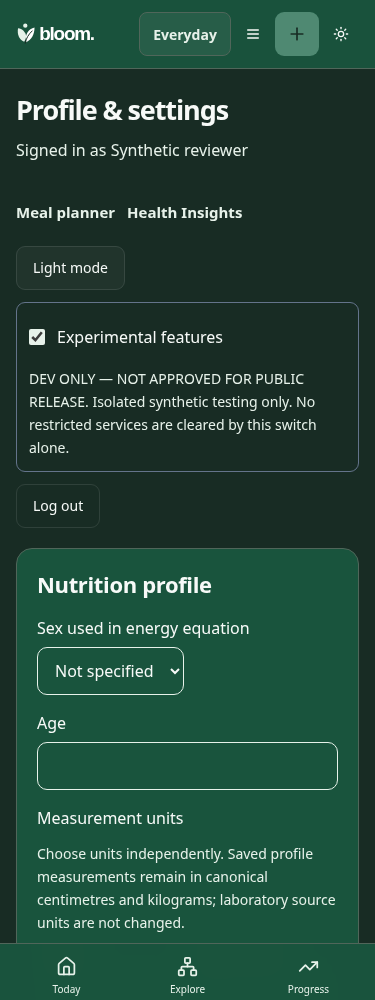
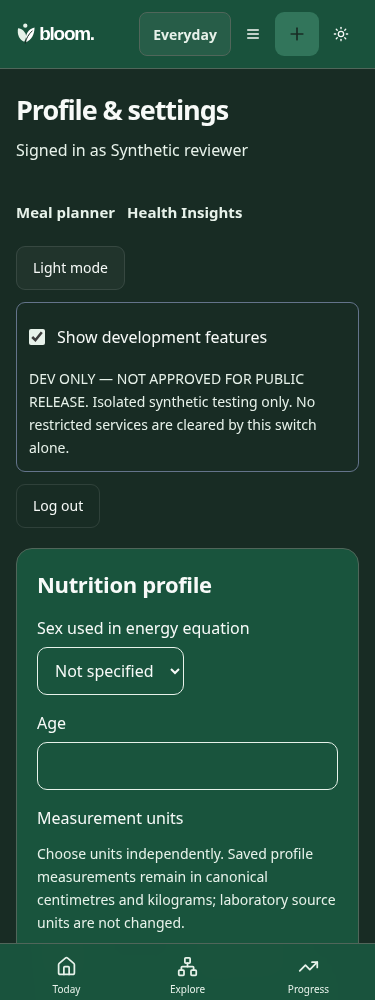
Unify internal development-mode labels without elevating restricted access

Changed region(s): [[0.1467, 0.31, 0.704, 0.341], [0.7333, 0.0, 0.8507, 0.062]]

diff --git a/client/src/components/ExperimentalSettings.tsx b/client/src/components/ExperimentalSettings.tsx
@@ -9,5 +9,5 @@ export default function ExperimentalSettings(){
  const save=useMutation({onMutate:(enabled:boolean)=>{if(!enabled){queryClient.setQueryData(key,(previous:any)=>previous?{...previous,experimentalEnabled:false}:previous);void queryClient.cancelQueries({predicate:q=>q.meta?.restrictedCapability===true});queryClient.removeQueries({predicate:q=>q.meta?.restrictedCapability===true});}},mutationFn:async(enabled:boolean)=>(await apiRequest('PATCH','/api/capabilities/experimental',{enabled})).json(),onSettled:async()=>{await queryClient.invalidateQueries({queryKey:key});setRequested(null);}});
  useEffect(()=>{if(!status.data?.experimentalEnabled){void queryClient.cancelQueries({predicate:q=>q.meta?.restrictedCapability===true});queryClient.removeQueries({predicate:q=>q.meta?.restrictedCapability===true});}},[status.data?.experimentalEnabled]);
  if(!status.data?.eligible||status.isError)return null;
- return <div className="experimental-preference space-y-2 w-full rounded-lg border border-slate-500 p-3"><label className="flex gap-2 items-center"><input type="checkbox" checked={requested??status.data.experimentalEnabled} disabled={requested!==null||save.isPending||status.isFetching} onChange={e=>{const next=e.target.checked;setRequested(next);save.mutate(next);}}/>Experimental features</label><p className="panel-note">DEV ONLY — NOT APPROVED FOR PUBLIC RELEASE. Isolated synthetic testing only. No restricted services are cleared by this switch alone.</p>{save.error&&<p role="alert">{save.error.message}</p>}</div>;
+ return <div className="experimental-preference space-y-2 w-full rounded-lg border border-slate-500 p-3"><label className="flex gap-2 items-center"><input type="checkbox" checked={requested??status.data.experimentalEnabled} disabled={requested!==null||save.isPending||status.isFetching} onChange={e=>{const next=e.target.checked;setRequested(next);save.mutate(next);}}/>Show development features</label><p className="panel-note">DEV ONLY — NOT APPROVED FOR PUBLIC RELEASE. Isolated synthetic testing only. No restricted services are cleared by this switch alone.</p>{save.error&&<p role="alert">{save.error.message}</p>}</div>;
 }

diff --git a/tests/capability-state.test.ts b/tests/capability-state.test.ts
@@ -1,0 +1,4 @@
+import test from 'node:test';import assert from 'node:assert/strict';import {developmentStatusLabel} from '../shared/capability-state';
+test('development status distinguishes unfinished, review, research and incident states without granting access',()=>{
+ assert.equal(developmentStatusLabel('IN_DEVELOPMENT','GENERAL_RELEASE','APPROVED'),'In development');assert.equal(developmentStatusLabel('VERIFIED','HIDDEN_PENDING_APPROVAL','UNDER_REVIEW'),'Pending approval');assert.equal(developmentStatusLabel('TESTABLE','HIDDEN_PENDING_APPROVAL','PROPOSED'),'In development · pending approval');assert.equal(developmentStatusLabel('PLANNED','GENERAL_RELEASE','APPROVED'),'Not yet functional');assert.equal(developmentStatusLabel('VERIFIED','INTERNAL_RESEARCH_ONLY','APPROVED'),'Internal research only');assert.equal(developmentStatusLabel('FUNCTIONALLY_COMPLETE','GENERAL_RELEASE','APPROVED'),'Verification pending');assert.equal(developmentStatusLabel('VERIFIED','GENERAL_RELEASE','APPROVED'),null);assert.equal(developmentStatusLabel('VERIFIED','DISABLED_INCIDENT','APPROVED'),'Unavailable');
+});

diff --git a/shared/capability-state.ts b/shared/capability-state.ts
@@ -1,0 +1,10 @@
+/** Implementation and release review are independent. Labels never confer access. */
+export type ImplementationReadiness='PLANNED'|'IN_DEVELOPMENT'|'TESTABLE'|'FUNCTIONALLY_COMPLETE'|'VERIFIED';
+export function developmentStatusLabel(readiness:ImplementationReadiness,category:string,approval:string):string|null {
+ if(category==='DISABLED_INCIDENT')return 'Unavailable';
+ const unfinished=readiness!=='VERIFIED'&&readiness!=='FUNCTIONALLY_COMPLETE';
+ const implementation=readiness==='PLANNED'?'Not yet functional':unfinished?'In development':readiness==='FUNCTIONALLY_COMPLETE'&&category==='GENERAL_RELEASE'&&approval==='APPROVED'?'Verification pending':null;
+ const release=category==='INTERNAL_RESEARCH_ONLY'?'Internal research only':category!=='GENERAL_RELEASE'||approval!=='APPROVED'?'Pending approval':null;
+ if(implementation&&release)return `${implementation} · ${release.toLowerCase()}`;
+ return implementation||release;
+}

diff --git a/BACKLOG.md b/BACKLOG.md
@@ -12,10 +12,11 @@ This execution ledger follows the owner's overnight directive. Scope and priorit
 | GATE-701 / LEG-GATE / LEG-INVENTORY | P0 | Central versioned capability policy, full exposure inventory and internal-only reactive UI gates | IN_PROGRESS | Provisional approval normalization and fail-closed photo/flux API guards implemented in current slice. Full endpoint/output/job/export coverage, tester provisioning/toggle and reactive graphite UI remain independently actionable. Incident-disabled outputs must stay off. |
 | GATE-701-PREF | P0 | Server-provisioned internal opt-in with reversible Settings preference | IMPLEMENTED_AND_TESTED | 210 tests/types/build and synthetic light/dark/mobile/desktop off/on/revocation checks. Published d0214c0, CI 40073617588 passed, Render dep-dbe5nh4s728c738d5grg live. Current effective restricted capability list remains empty. No live grants/migration/activation. |
 | OPS-702-USDA | P0 | Shared source request allowance across search/detail/meal lookup | IMPLEMENTED_AND_TESTED | 213 tests/types/build; two-replica database boundary/reset/cache/fallback tests. Published 80c3aad; CI 40074216938 passed on its Architect-doc descendant. No monetary tariff invented. Full AI spend/circuits/analytics remain OPEN. |
+| GATE-701-STATE / 91f16c8 | P0 | One Show development features control and orthogonal readiness/release label contract | IMPLEMENTED_AND_TESTED; publication pending | 217 tests/types/build and updated internal off/on/revocation/Appearance browser. Actual internal module composition and full inventory remain IN_PROGRESS. |
 | OPS-702 | P0 | Shared per-user/capability limits, atomic AI spend reservations and recovery verification | OPEN | Existing shared rate budgets remain. New daily/monthly money metering and recovery acceptance are not claimed. No invented tariffs or paid services. |
-| FOOD-508 / INT-REST / UT-REST / MKT-REST | P0 | Common-brand/recent restaurant combobox and explicit region/locality fallbacks | IMPLEMENTED_AND_TESTED; publication pending | 215 tests/types/build; keyboard McDonald's selection, market separation, no GPS requests and canonical context/save browser regression passed. Actual menu/places sources remain externally gated. |
+| FOOD-508 / INT-REST / UT-REST / MKT-REST | P0 | Common-brand/recent restaurant combobox and explicit region/locality fallbacks | IMPLEMENTED_AND_TESTED; exact-SHA publication verification pending | 215 tests/types/build; keyboard McDonald's selection, market separation, no GPS requests and canonical context/save browser regression passed. Actual menu/places sources remain externally gated. |
 | COPY-1301 / UT-COPY / MKT-COPY / MKT-LAYOUT | P0 | Task-first concise copy and rendered layout audit | IN_PROGRESS | Applied to active Add Food/restaurant surface with screenshots and overflow checks. Whole-app sweep remains actionable; do not claim source suspicions are proven layout defects. |
-| FOOD-509 / 7af47d5 / MKT-REG-1210–1213 | P0 | Hide unfinished public food and connection placeholders; preserve real manual operations | IMPLEMENTED_AND_TESTED; publication pending | 216 tests/types/build and direct-photo-link/draft/hidden-control/browser regression. Four working chooser methods; no image/GPS calls. Broader capability inventory remains OPEN. |
+| FOOD-509 / 7af47d5 / MKT-REG-1210–1213 | P0 | Hide unfinished public food and connection placeholders; preserve real manual operations | IMPLEMENTED_AND_TESTED; exact-SHA publication verification pending | 216 tests/types/build and direct-photo-link/draft/hidden-control/browser regression. Four working chooser methods; no image/GPS calls. Broader capability inventory remains OPEN. |
 | PRIV-101 | P0 | Combined account-record export | VERIFIED_PREVIEW | `40147fb`; CI 40057861646 passed, Render live. Read-only account snapshot; explicit optional-storage state; no passwords/session material/internal paths. |
 | PRIV-102 | P0 | Password-confirmed active account erasure and stored-session revocation | VERIFIED_PREVIEW; specialist review pending | `9f83028`; 203 Node tests, types/build and synthetic browser passed. CI 40059692748 passed including real isolated-Neon erasure and second-account checks. Render `dep-dbe2k8ks728c738aphcg` live. |
 | PRIV-103 | P0 | Backup retention, erasure propagation through restore, operational-log and vendor lifecycle | OPEN | Audit existing provider/configuration and approved retention requirements first. Implement/test with isolated synthetic data; actual destructive backup operations require separate authorization. No claim of full backup/vendor erasure. |

diff --git a/NEXT_ACTIONS.md b/NEXT_ACTIONS.md
@@ -4,7 +4,7 @@
 2. Last published code is `80c3aad`, plus Architect-only 2f1ea40; CI 40074216938 passed on that descendant. Verify current exact head/deployment before continuing. Workspace `tea-db9toijrjlhs73850cp0`, existing service `srv-db9u7mjbc2fs73d86uv0`. Pass workspaceId on connector calls. No replacement service or main merge.
 3. Execution recovered after the review's stated reset time at 06:45 UTC. Normal approval succeeded. Do not treat the historical usage failure as an ongoing product blocker.
 4. FOOD-506 was published as `b5dce7c05e493ed6c2185dbba96f3a83990be211`: 204 tests/build/types, save/totals browser regression and production advisory check passed. CI 40071570397 succeeded; Render `dep-dbe58q6i0phs73bnvfr0` is live.
-5. Current publication batch combines FOOD-508 restaurant refinement with FOOD-509 readiness supersession from 7af47d5. 216 tests/types/build and browser checks passed. Verify exact head/CI/Render after push; never claim all v0.5 complete. The current UI has four working choices; unfinished photo/Nearby and connection placeholders are hidden, server photo/flux gates remain denied, direct photo route preserves permitted text. Historical five-way screenshots/notes document earlier design and are explicitly superseded.
+5. Current publication batch combines FOOD-508 restaurant refinement, FOOD-509 readiness supersession from 7af47d5 and unified development-mode label/status contract from 91f16c8. 217 tests/types/build and both food/internal-mode browser checks passed. Verify exact head/CI/Render after push; never claim all v0.5 complete. The current UI has four working choices; unfinished photo/Nearby and connection placeholders are hidden, server photo/flux gates remain denied, direct photo route preserves permitted text. Historical five-way screenshots/notes document earlier design and are explicitly superseded.
 6. Browser environment: `BLOOM_PLAYWRIGHT_MODULE=/opt/codex/cua_node/lib/node_modules/playwright`, `BLOOM_CHROMIUM_EXECUTABLE=/usr/bin/chromium`. Use `node --import tsx scripts/qa/add-food-journey.mjs` (localhost:5194) and `scripts/qa/branded-food-journey.mjs` (localhost:5187). Fixtures do not establish hosted/native/independent acceptance. Do not run concurrently because shared Vite dependency caches can conflict.
 7. Stage only reviewed source/tests and curated docs/review artifacts, update the four root records, commit and push. Preserve concurrent Architect changes with fetch/inspect/rebase of unpublished commits only. Auto-deploy is configured; no manual deploy after push.
 8. Verify exact-SHA CI and existing Render live deployment/logs. Keep advisory/security/persistence gates intact. Record evidence and continue to the next task immediately.

diff --git a/docs/architecture/V05_IMPLEMENTATION_STATUS.md b/docs/architecture/V05_IMPLEMENTATION_STATUS.md
@@ -174,3 +174,9 @@ Restaurant input now offers common brands plus same-market recent restaurant con
 Applied 7af47d5: the design catalogue may define five input methods, but ordinary users now see only the four working implementations. Unfinished photo interpretation is absent, not a disabled/dead tile or development-status message; direct photo navigation returns to the permitted chooser without losing typed food. Source server manifest exposes shipped readiness, while implementation readiness and the existing server photo gate both prevent client flags from enabling unfinished code. Nearby controls are absent without a working places source. Restaurant entry is labeled for its genuinely working name/manual-value/description flow. Profile no longer fetches/displays unfinished device-connection status tiles; actual stored-record privacy operations remain available. No core logging permission or source was disabled.
 
 216 tests, types/build and updated browser checks passed, including hidden controls, safe direct-route recovery, no image/location calls, country-specific keyboard suggestions and canonical meal/context saving. This covers the touched food/privacy surfaces, not the complete 52-feature exposure inventory or all integration setup paths. Independent hosted/device/screen-reader acceptance and broader capability/copy audit remain open.
+
+## Unified development-mode terminology
+
+Applied 91f16c8: one internal-only `Show development features` control replaces the earlier experimental-only wording; no second switch exists. Preference and server provisioning remain the same default-denied boundary, currently clearing no restricted services. Added typed orthogonal implementation-readiness states and tested readable labels for unfinished, pending approval, research-only, combined conditions and hard incident disablement. Labels grant no permission. Functional completion without verification does not silently shed development status. Full per-capability runtime inventory, in-situ testable internal modules and their approved data contexts remain open.
+
+217 tests, types/build and updated ordinary/internal off/on/revocation/Appearance browser checks passed. No real internal account, model, research action or provider was activated.

diff --git a/DEVELOPMENT_LOG.md b/DEVELOPMENT_LOG.md
@@ -54,3 +54,7 @@ Published source budget as 80c3aad. Architect-only descendant 2f1ea40 includes t
 ### Restaurant and public-readiness supersession
 
 Preserved 7af47d5 after push rejection. It supersedes always-five visible routes: unfinished photo/company-level Nearby must not be ordinary-user tiles or development messages. Working restaurant manual entry remains, with concise name/region/common/recent controls. Photo deep link returns to chooser without losing text; server denial remains. Profile's unfinished connection-status tiles/data load removed while stored-record export/deletion remains. 216 tests/types/build and updated browser journey passed. Restaurant commit was kept locally and combined with this superseding refinement before publication. No credentials or production data changed. Remaining independent engineering includes full capability exposure audit, AI monetary controls and recovery inventory/verification.
+
+### Unified development mode and readiness checkpoint
+
+Preserved the new 91f16c8 handoff. One internal-only Show development features control now spans incomplete/regulatory development intent; the preference still grants no restricted services. Added independent typed readiness/approval labels, including combined, research and hard-incident states. Final 217 tests/types/build plus public readiness/deep-link/draft and internal toggle/revocation/Appearance browser checks passed. Current public food methods are only the four working implementations; no unfinished photo/Nearby or connection-status placeholders. Preparing the exact-SHA CI/Render verification. Full capability exposure inventory, role-data-context integration, spend reservations/circuits, recovery and broader copy/layout audit remain actionable; no goal completion claim.

diff --git a/docs/review/experimental-settings-20261024/README.md b/docs/review/experimental-settings-20261024/README.md
@@ -7,3 +7,5 @@ The server independently requires an unexpired, uniquely provisioned grant, revi
 Preference storage is additive and account-scoped. Original enabled preference can be exported without the authorization fingerprint; account deletion cascades its row. An absent live preference table does not affect ordinary accounts. The migration is applied only to isolated CI by this implementation, not to the running database. Enabling real internal access requires the separate reviewed provisioning and migration steps.
 
 210 Node tests, TypeScript/build, database and API tests plus this synthetic UI journey passed. Full 52-feature route/output/export/job inventory, in-situ restricted feature composition and independent Legal/Security/Branding acceptance remain open.
+
+Latest owner refinement 91f16c8 renames this single control **Show development features** to cover both implementation and regulatory visibility. It grants neither. Current screenshots and browser checks use the new label; no additional switch or gallery was added. Orthogonal status-label tests preserve readiness versus approval/research/incident distinctions. Effective restricted service list remains empty until further reviewed implementation.
